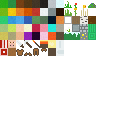
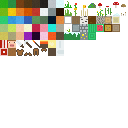
too much fun

Changed region(s): [[0.75, 0.0312, 1.0, 0.25], [0.875, 0.0, 1.0, 0.0625], [0.0625, 0.3125, 0.125, 0.375]]

diff --git a/src/blocks.c b/src/blocks.c
@@ -12,10 +12,18 @@ struct blockinfo_t blockinfo[] = {
 	{ .name = "stone", .img = { IMG_LIGHT_STONE } },
 	{ .name = "clay", .img = { IMG_CLAY } },
 	{ .name = "snow", .img = { IMG_SNOW } },
+	{ .name = "mint", .img = { IMG_MINT } },
 	{ .name = "red leaves", .img = { IMG_RED_LEAVES } },
 	{ .name = "pig", .img = { IMG_PIGBACK, IMG_PIG_SKIN, IMG_PIGBACK, IMG_PIGBACK, IMG_PIG_HEAD, IMG_PIG_SKIN } },
 	{ .name = "meat", .img = { IMG_MEAT_TOP, IMG_MEAT_TOP, IMG_MEAT_SIDE } },
 	{ .name = "torch", .img = { IMG_TORCH_TOP, IMG_SWORD_HILT, IMG_TORCH_SIDE } },
+	{ .name = "melon", .img = { IMG_MELON_CUT, IMG_MELON_SKIN, IMG_MELON_SIDE } },
+	{ .name = "tree", .img = { IMG_TREE_CUT, IMG_TREE_CUT, IMG_TREE } },
+	{ .name = "birch", .img = { IMG_BIRCH_CUT, IMG_BIRCH_CUT, IMG_BIRCH_TREE } },
+	{ .name = "oak", .img = { IMG_OAK_CUT, IMG_OAK_CUT, IMG_OAK_TREE } },
+	{ .name = "palm", .img = { IMG_PALM_CUT, IMG_PALM_CUT, IMG_PALM_TREE } },
+	{ .name = "snow grass 1", .img = { IMG_SNOW, IMG_WETGRASS, IMG_GRASS_SNOW_1 } },
+	{ .name = "snow grass 2", .img = { IMG_SNOW, IMG_WETGRASS, IMG_GRASS_SNOW_2 } },
 };
 
 void initBlockInfo() {

diff --git a/src/images.h b/src/images.h
@@ -32,11 +32,10 @@ enum img_types {
 	IMG_BB_GRASS2,
 	IMG_BB_YELLOWFLOWER,
 	IMG_BB_STRAW,
-	IMG_MINT = IMG_ATLAS_ROW*2-1,
+	IMG_MINT = IMG_AT(0, 2),
 	IMG_OCEAN1,
 	IMG_OCEAN2,
 	IMG_OCEAN3,
-	IMG_OCEAN4,
 	IMG_MOSS,
 	IMG_DARKMOSS,
 	IMG_BLACKROCK3,
@@ -45,11 +44,17 @@ enum img_types {
 	IMG_TREE,
 	IMG_BIRCH_TREE,
 	IMG_PALM_TREE,
+	IMG_OAK_TREE,
+	IMG_OAK_CUT,
+	IMG_BIRCH_CUT,
 	IMG_PIG_SKIN = IMG_AT(2, 3),
 	IMG_BRICK = IMG_AT(10, 3),
 	IMG_MELON_SIDE = IMG_AT(11, 3),
+	IMG_MELON_CUT = IMG_AT(12, 3),
+	IMG_PALM_CUT = IMG_AT(13, 3),
+	IMG_TREE_CUT = IMG_AT(14, 3),
 	IMG_GOLD_ORE = IMG_AT(10, 4),
-	IMG_MELON_TOP = IMG_AT(11, 4),
+	IMG_MELON_SKIN = IMG_AT(11, 4),
 	IMG_MEAT_SIDE = IMG_AT(0, 5),
 	IMG_PIG_HEAD,
 	IMG_TORCH_SIDE = IMG_AT(5, 5),
@@ -58,6 +63,9 @@ enum img_types {
 	IMG_MEAT_TOP = IMG_AT(0, 6),
 	IMG_PIGBACK,
 	IMG_SWORD_HILT = IMG_AT(6, 6),
+	IMG_LAVA = IMG_AT(6, 4),
+	IMG_GRASS_SNOW_1 = IMG_AT(8, 4),
+	IMG_GRASS_SNOW_2 = IMG_AT(9, 4),
 	NUM_IMG_TYPES
 };
 

diff --git a/src/blocks.h b/src/blocks.h
@@ -27,10 +27,18 @@ enum block_types {
 	BLOCK_STONE,
 	BLOCK_CLAY,
 	BLOCK_SNOW,
+	BLOCK_MINT,
 	BLOCK_RED_LEAVES,
 	BLOCK_PIG,
 	BLOCK_MEAT,
 	BLOCK_TORCH,
+	BLOCK_MELON,
+	BLOCK_TREE,
+	BLOCK_BIRCH,
+	BLOCK_OAK,
+	BLOCK_PALM,
+	BLOCK_SNOWY_GRASS_1,
+	BLOCK_SNOWY_GRASS_2,
 	NUM_BLOCKTYPES
 };
 
